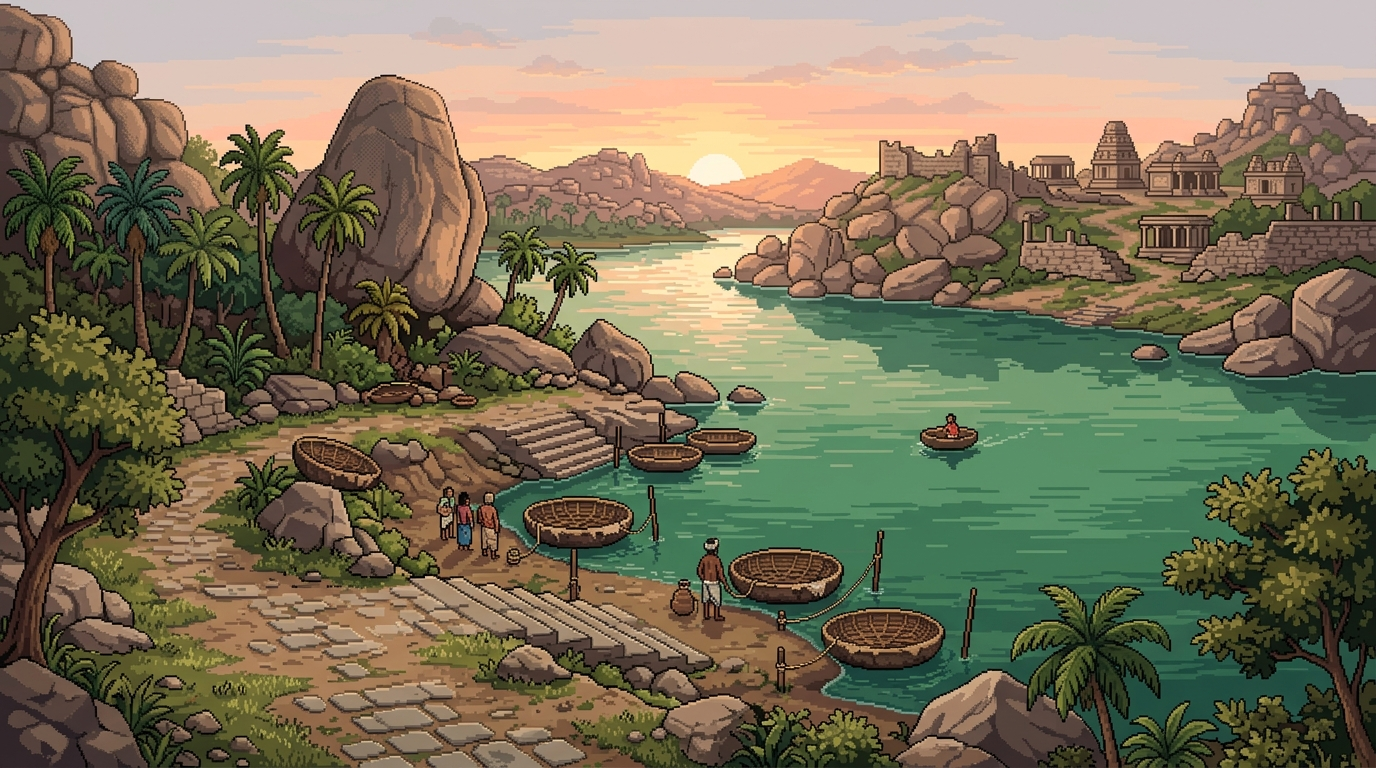
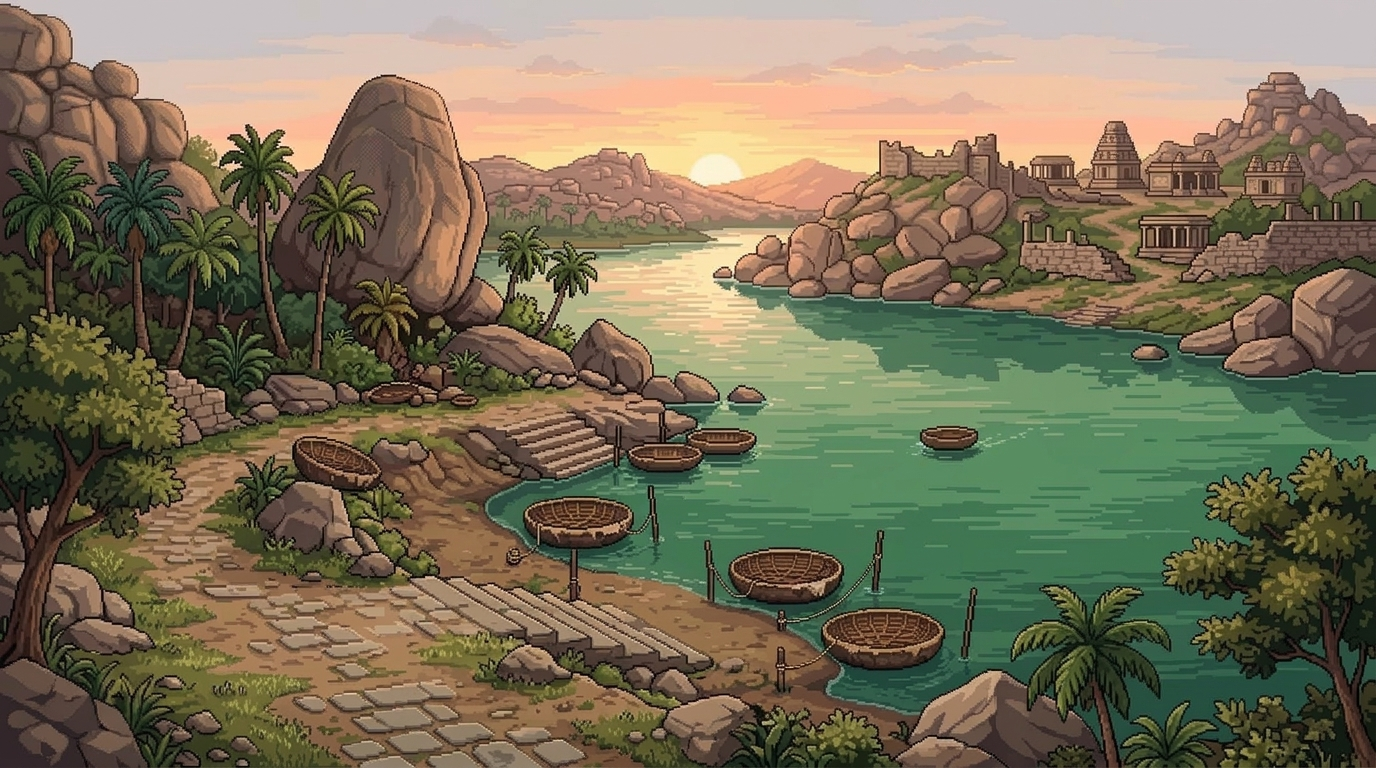
1st location done

diff --git a/frontend/app/play/vijayanagara/page.tsx b/frontend/app/play/vijayanagara/page.tsx
@@ -126,6 +126,17 @@ export default function VijayanagaraGameScreen() {
   const [showUncleDialogue, setShowUncleDialogue] = useState(false);
   const [uncleSpeechText, setUncleSpeechText] = useState("");
   const [uncleOptions, setUncleOptions] = useState<Array<{ id: number; text: string }>>([]);
+  const [uncleFollowPos, setUncleFollowPos] = useState({ x: 50.0, y: 50.0 });
+  const [uncleFacingLeft, setUncleFacingLeft] = useState(false);
+
+  useEffect(() => {
+    // Uncle follows exactly behind the player with a delay so he stays on the path
+    const timer = setTimeout(() => {
+      setUncleFollowPos({ x: playerPos.x, y: playerPos.y });
+      setUncleFacingLeft(facingLeft);
+    }, 400); // 400ms delay
+    return () => clearTimeout(timer);
+  }, [playerPos, facingLeft]);
 
   // Jolly Bhai Companion State
   const [showJollyDialogue, setShowJollyDialogue] = useState(false);
@@ -1622,6 +1633,28 @@ export default function VijayanagaraGameScreen() {
               </div>
             </div>
 
+            {/* Animated Coracle Row Boat 1 (Left Lane) */}
+            <PedestrianNPC
+              id="animated_coracle_1"
+              frames={["/coracle_row_1.png", "/coracle_row_2.png", "/coracle_row_3.png", "/coracle_row_4.png"]}
+              path={[{ x: 62, y: 68 }, { x: 55, y: 50 }, { x: 50, y: 38 }]}
+              speed={0.25}
+              scale={1.8}
+              circular={false}
+              startDelay={0}
+              animSpeed={400}
+            />
+            {/* Animated Coracle Row Boat 2 (Right Lane) */}
+            <PedestrianNPC
+              id="animated_coracle_2"
+              frames={["/coracle_row_1.png", "/coracle_row_2.png", "/coracle_row_3.png", "/coracle_row_4.png"]}
+              path={[{ x: 55, y: 38 }, { x: 65, y: 50 }, { x: 80, y: 68 }]}
+              speed={0.25}
+              scale={1.6}
+              circular={false}
+              startDelay={2000}
+              animSpeed={400}
+            />
             <div
               className="absolute transform -translate-x-1/2 -translate-y-1/2 flex flex-col items-center pointer-events-none z-10"
               style={{ left: "32%", top: "56%" }}
@@ -2716,8 +2749,10 @@ export default function VijayanagaraGameScreen() {
 
         {/* --- UNCLE COMPANION FOLLOWER --- */}
         {!isUncleKidnapped && (hasRecruitedHistorian || scene === "hampi_bazaar_entry") && (() => {
-          const uncleFollowX = facingLeft ? playerPos.x - 12 : playerPos.x + 12;
-          const uncleFollowY = playerPos.y;
+          // Use the delayed uncleFollowPos state to follow the exact path the player took
+          // Offset slightly so they don't perfectly overlap when standing still
+          const uncleFollowX = uncleFacingLeft ? uncleFollowPos.x + 5 : uncleFollowPos.x - 5;
+          const uncleFollowY = uncleFollowPos.y;
           
           return (
             <div
@@ -2733,7 +2768,7 @@ export default function VijayanagaraGameScreen() {
                 alt="Historian Companion"
                 className="w-20 h-28 object-contain object-bottom transition-all drop-shadow-[0_4px_10px_rgba(0,0,0,0.5)]"
                 style={{
-                  transform: `scale(${depthScale}) scaleX(${facingLeft ? -1 : 1})`,
+                  transform: `scale(${depthScale}) scaleX(${uncleFacingLeft ? -1 : 1})`,
                   imageRendering: "pixelated"
                 }}
               />

diff --git a/frontend/remove_bg_coracle2.py b/frontend/remove_bg_coracle2.py
@@ -1,0 +1,42 @@
+import cv2
+import numpy as np
+
+def process_image(input_path, output_path):
+    img = cv2.imread(input_path)
+    if img is None:
+        print(f"Could not read {input_path}")
+        return
+        
+    h, w = img.shape[:2]
+    colors = []
+    # Sample top row
+    for i in range(0, w, 10):
+        color = img[0, i]
+        is_new = True
+        for c in colors:
+            if np.all(np.abs(c.astype(int) - color.astype(int)) < 20):
+                is_new = False
+                break
+        if is_new:
+            colors.append(color)
+
+    # Combine masks for all detected background colors
+    bg_mask = np.zeros(img.shape[:2], dtype=bool)
+    for c in colors:
+        diff = np.abs(img.astype(int) - c.astype(int))
+        mask = np.all(diff <= 25, axis=-1)
+        bg_mask = bg_mask | mask
+
+    fg_mask = ~bg_mask
+    b, g, r = cv2.split(img)
+    alpha = np.zeros_like(b, dtype=np.uint8)
+    alpha[fg_mask] = 255
+
+    rgba = cv2.merge([b, g, r, alpha])
+    cv2.imwrite(output_path, rgba)
+    print(f"Saved {output_path}")
+
+process_image(r'C:\Users\ami05\.gemini\antigravity-ide\brain\6cc172be-6b2a-4513-8ba8-99b349c01561\coracle_new_1_1790539037136.jpg', r'c:\Users\ami05\OneDrive\Desktop\BHARAT_GATHA\frontend\public\coracle_row_1.png')
+process_image(r'C:\Users\ami05\.gemini\antigravity-ide\brain\6cc172be-6b2a-4513-8ba8-99b349c01561\coracle_new_2_1790539063221.jpg', r'c:\Users\ami05\OneDrive\Desktop\BHARAT_GATHA\frontend\public\coracle_row_2.png')
+process_image(r'C:\Users\ami05\.gemini\antigravity-ide\brain\6cc172be-6b2a-4513-8ba8-99b349c01561\coracle_new_3_1790539094691.jpg', r'c:\Users\ami05\OneDrive\Desktop\BHARAT_GATHA\frontend\public\coracle_row_3.png')
+process_image(r'C:\Users\ami05\.gemini\antigravity-ide\brain\6cc172be-6b2a-4513-8ba8-99b349c01561\coracle_new_4_1790539122020.jpg', r'c:\Users\ami05\OneDrive\Desktop\BHARAT_GATHA\frontend\public\coracle_row_4.png')

diff --git a/frontend/remove_bg_coracle.py b/frontend/remove_bg_coracle.py
@@ -1,0 +1,37 @@
+import cv2
+import numpy as np
+
+def process_image(input_path, output_path):
+    img = cv2.imread(input_path)
+    h, w = img.shape[:2]
+    colors = []
+    # Sample top row
+    for i in range(0, w, 10):
+        color = img[0, i]
+        is_new = True
+        for c in colors:
+            if np.all(np.abs(c.astype(int) - color.astype(int)) < 20):
+                is_new = False
+                break
+        if is_new:
+            colors.append(color)
+
+    # Combine masks for all detected background colors
+    bg_mask = np.zeros(img.shape[:2], dtype=bool)
+    for c in colors:
+        diff = np.abs(img.astype(int) - c.astype(int))
+        mask = np.all(diff <= 25, axis=-1)
+        bg_mask = bg_mask | mask
+
+    fg_mask = ~bg_mask
+    b, g, r = cv2.split(img)
+    alpha = np.zeros_like(b, dtype=np.uint8)
+    alpha[fg_mask] = 255
+
+    rgba = cv2.merge([b, g, r, alpha])
+    cv2.imwrite(output_path, rgba)
+    print(f"Saved {output_path}")
+
+process_image(r'C:\Users\ami05\.gemini\antigravity-ide\brain\6cc172be-6b2a-4513-8ba8-99b349c01561\coracle_row_1_1790538315348.jpg', r'c:\Users\ami05\OneDrive\Desktop\BHARAT_GATHA\frontend\public\coracle_row_1.png')
+process_image(r'C:\Users\ami05\.gemini\antigravity-ide\brain\6cc172be-6b2a-4513-8ba8-99b349c01561\coracle_row_2_1790538341496.jpg', r'c:\Users\ami05\OneDrive\Desktop\BHARAT_GATHA\frontend\public\coracle_row_2.png')
+process_image(r'C:\Users\ami05\.gemini\antigravity-ide\brain\6cc172be-6b2a-4513-8ba8-99b349c01561\coracle_row_3_1790538365630.jpg', r'c:\Users\ami05\OneDrive\Desktop\BHARAT_GATHA\frontend\public\coracle_row_3.png')
